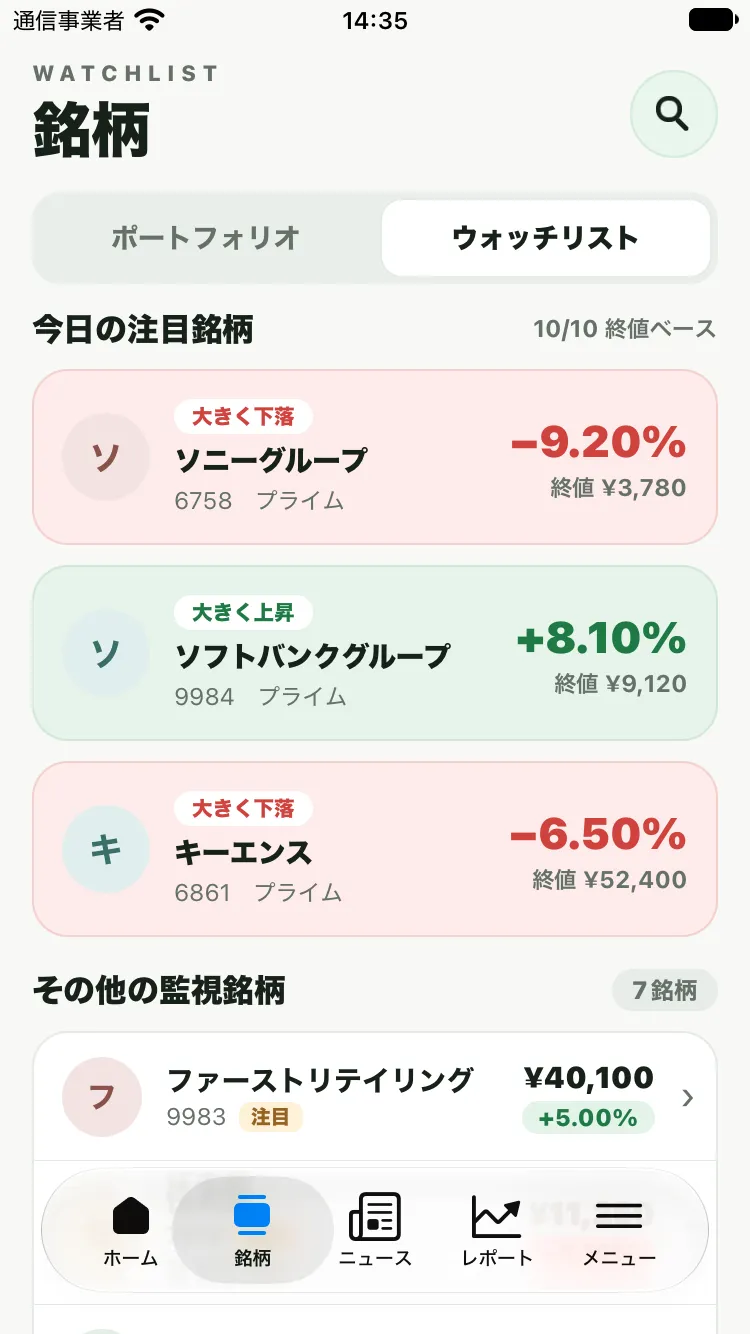
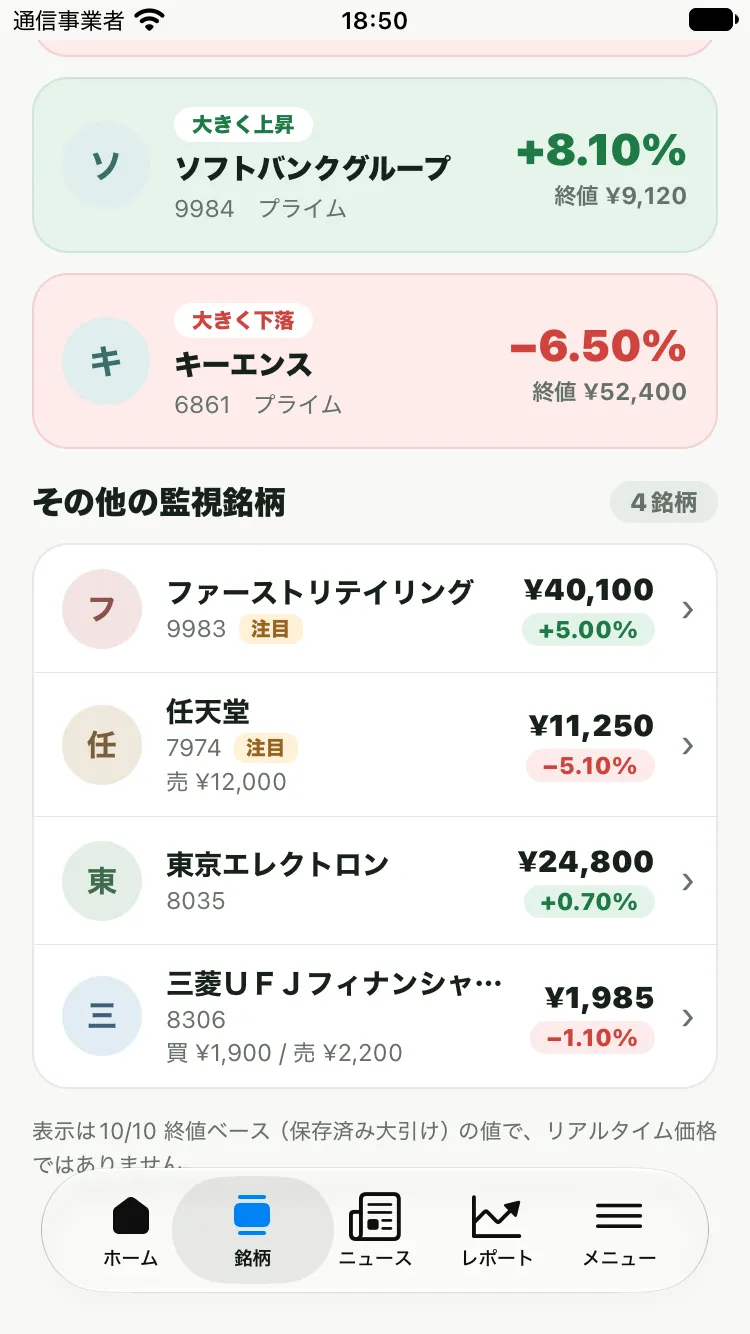
fix(watchlist): the other-list count badge counts only the listed rows; no empty group when all are featured
The 「その他の監視銘柄」 badge used featured + rest, so 2 featured + 5 listed showed 7, and an all-featured list left
an empty heading. The group now exists only when rows remain and its count is exactly the number of listed rows
(remainingGroup). Regression tests cover 1/2/3 featured-all, 2+5, >3 candidates, none featured and no watch stocks.

diff --git a/tests/app/watchlist-layout_test.ts b/tests/app/watchlist-layout_test.ts
@@ -11,6 +11,7 @@ import {
   FEATURED_MAX,
   layoutWatchlist,
   portfolioBasis,
+  remainingGroup,
   verifiedWatchNews,
   watchlistLabels,
 } from "../../src/lib/portfolio-view.ts";
@@ -246,4 +247,69 @@ test("rows keep numbers whole: targets get their own line, the 注目 marker sit
   assert.ok(/rowSub: \{ flexDirection: 'row'/.test(section) && section.includes("numberOfLines={1}>{row.company}"), "company on its own line");
   assert.ok(section.includes("買 ${formatPriceYen(buy)}") && section.includes("売 ${formatPriceYen(sell)}"));
   assert.ok(!section.includes("{formatNewsTime(news.newsTime)}　{basisLabel}"), "the news date is not repeated with the basis label");
+});
+
+// ---- K1 corrective: the compact list's group and its count --------------------------------------------------------
+
+function groupFor(stocks: ReportStock[], extraTracked: string[] = []) {
+  const { result, rows } = layout(stocks, [], extraTracked);
+  return { group: remainingGroup(result.featured.length, result.rest.length), result, rows };
+}
+
+test("all watch stocks featured (1/2/3): no remaining group and no '0銘柄' placeholder", () => {
+  for (const featuredCount of [1, 2, 3]) {
+    const stocks = Array.from({ length: featuredCount }, (_, index) => watchStock(`F${index}`, 6 + index));
+    const { group, result } = groupFor(stocks);
+    assert.equal(result.featured.length, featuredCount);
+    assert.equal(result.rest.length, 0);
+    assert.deepEqual(group, { show: false, title: "その他の監視銘柄", count: 0 }, `${featuredCount} featured`);
+  }
+});
+
+test("partly featured 2 + 5: the badge counts only the 5 listed rows, never the featured stocks", () => {
+  const stocks = [
+    watchStock("A", -7.8), watchStock("B", 6.4),
+    ...["C", "D", "E", "F", "G"].map((ticker, index) => watchStock(ticker, [1.2, -0.8, 0.3, -2.4, 3.9][index])),
+  ];
+  const { group, result, rows } = groupFor(stocks);
+  assert.equal(rows.length, 7);
+  assert.equal(result.featured.length, 2);
+  assert.deepEqual(group, { show: true, title: "その他の監視銘柄", count: 5 });
+  assert.equal(group.count, result.rest.length, "the badge equals the rows shown");
+});
+
+test("more than 3 candidates: 3 featured and the badge is exactly the remainder, flagged extras included", () => {
+  const stocks = [
+    watchStock("A", 9), watchStock("B", -8), watchStock("C", 7), watchStock("D", 6), watchStock("E", -5.5), watchStock("F", 1),
+  ];
+  const { group, result } = groupFor(stocks);
+  assert.equal(result.featured.length, 3);
+  assert.deepEqual(result.rest.map((row) => row.ticker), ["D", "E", "F"]);
+  assert.deepEqual([...result.flagged].sort(), ["D", "E"]);
+  assert.deepEqual(group, { show: true, title: "その他の監視銘柄", count: 3 });
+});
+
+test("none featured: the group is 監視銘柄 and counts every listed row", () => {
+  const { group, result } = groupFor([watchStock("A", 1), watchStock("B", -2), watchStock("C", 4.99), watchStock("D", null)]);
+  assert.equal(result.featured.length, 0);
+  assert.deepEqual(group, { show: true, title: "監視銘柄", count: 4 });
+});
+
+test("no watch registrations at all: no group (the screen shows its existing empty state instead)", () => {
+  const { group } = groupFor([]);
+  assert.deepEqual(group, { show: false, title: "監視銘柄", count: 0 });
+  assert.deepEqual(remainingGroup(0, 0), { show: false, title: "監視銘柄", count: 0 });
+});
+
+test("the component renders the group only when rows remain and uses the helper's count (not featured + rest)", async () => {
+  const section = await code("src/components/portfolio/watchlist-section.tsx");
+  assert.ok(section.includes("const group = remainingGroup(featured.length, rest.length);"));
+  assert.ok(section.includes("{group.show ? (") && section.includes("{group.count}銘柄") && section.includes("{group.title}"));
+  assert.ok(!/featured\.length \+ rest\.length/.test(section), "the old combined count is gone");
+  assert.ok(!/\{count\}/.test(section));
+  assert.ok(section.includes("{rest.map((row, index) => ("), "the listed rows are exactly `rest`");
+  const view = await code("src/lib/portfolio-view.ts");
+  assert.ok(view.includes("show: restCount > 0,") && view.includes("count: restCount,"));
+  // The featured stocks are still all rendered (cards), so no stock is lost when the group is hidden.
+  assert.ok(section.includes("{featured.map((entry) => ("));
 });

diff --git a/src/components/portfolio/watchlist-section.tsx b/src/components/portfolio/watchlist-section.tsx
@@ -6,6 +6,7 @@ import { formatNewsTime } from '@/lib/news-labels';
 import {
   formatPriceYen,
   featuredMoveLabel,
+  remainingGroup,
   formatSignedPercent,
   tone,
   type FeaturedKind,
@@ -155,7 +156,7 @@ export function WatchlistSection({
   onEdit: (trackedId: string) => void;
   onOpenNews: (newsId: string) => void;
 }) {
-  const count = featured.length + rest.length;
+  const group = remainingGroup(featured.length, rest.length);
   return (
     <View style={styles.wrap}>
       {featured.length > 0 ? (
@@ -170,21 +171,19 @@ export function WatchlistSection({
         </View>
       ) : null}
 
-      {count > 0 ? (
+      {group.show ? (
         <View style={styles.block}>
           <View style={styles.blockHead}>
-            <Text style={styles.blockTitle}>{featured.length > 0 ? 'その他の監視銘柄' : '監視銘柄'}</Text>
+            <Text style={styles.blockTitle}>{group.title}</Text>
             <View style={styles.countBadge}>
-              <Text style={styles.countText}>{count}銘柄</Text>
+              <Text style={styles.countText}>{group.count}銘柄</Text>
             </View>
           </View>
-          {rest.length > 0 ? (
-            <View style={styles.listCard}>
-              {rest.map((row, index) => (
-                <WatchListRow key={row.tracked.id} row={row} flagged={flagged.has(row.ticker)} last={index === rest.length - 1} onEdit={onEdit} />
-              ))}
-            </View>
-          ) : null}
+          <View style={styles.listCard}>
+            {rest.map((row, index) => (
+              <WatchListRow key={row.tracked.id} row={row} flagged={flagged.has(row.ticker)} last={index === rest.length - 1} onEdit={onEdit} />
+            ))}
+          </View>
         </View>
       ) : null}
     </View>

diff --git a/src/lib/portfolio-view.ts b/src/lib/portfolio-view.ts
@@ -401,6 +401,19 @@ export function layoutWatchlist(rows: readonly WatchRow[], snapshot: ReportSnaps
   return { featured, rest: rows.filter((row) => !featuredIds.has(row.tracked.id)), flagged };
 }
 
+/**
+ * The compact list under the featured cards. It exists only when there is something left to list, and its count
+ * is exactly the number of rows shown there -- never the featured stocks, which are listed in their cards.
+ * All featured => no group at all (no "0銘柄" placeholder); none featured => 監視銘柄; otherwise その他の監視銘柄.
+ */
+export function remainingGroup(featuredCount: number, restCount: number): { show: boolean; title: string; count: number } {
+  return {
+    show: restCount > 0,
+    title: featuredCount > 0 ? 'その他の監視銘柄' : '監視銘柄',
+    count: restCount,
+  };
+}
+
 /** Section wording: 「今日の」 only when the saved prices are today's; otherwise date-neutral with the dated basis. */
 export function watchlistLabels(basis: PortfolioBasis | null): { featuredTitle: string; basis: string } {
   const labels = portfolioLabels(basis);
